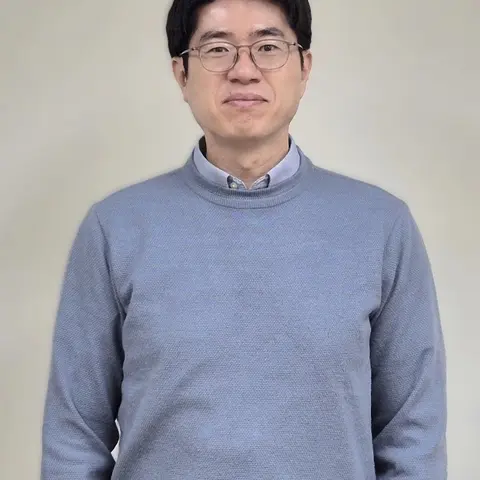
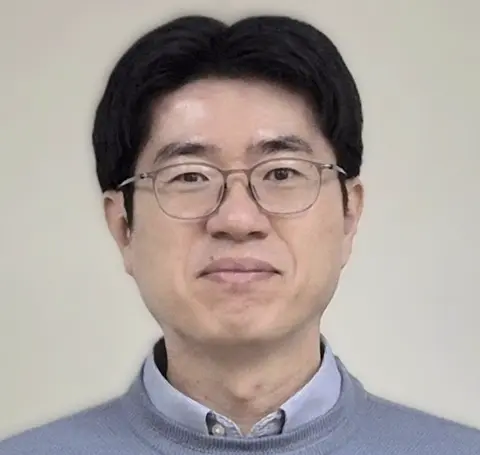
Deploying to gh-pages from @ syoungjoo/syoungjoo.github.io@7a734164506bc4f93343b6773e61bacaf04cfff3 🚀

diff --git a/members/index.html b/members/index.html
@@ -1,5 +1,5 @@
 <!DOCTYPE html> <html lang="en"> <head> <meta http-equiv="Content-Type" content="text/html; charset=UTF-8"> <meta charset="utf-8"> <meta name="viewport" content="width=device-width, initial-scale=1, shrink-to-fit=no"> <meta http-equiv="X-UA-Compatible" content="IE=edge"> <title> members | Computer Systems Security Lab </title> <meta name="author" content=" "> <meta name="description" content="Computer Systems Security Lab, School of Cybersecurity, Korea University. We study system security, microarchitectural side-channel attacks, cloud security, and network security. "> <meta name="keywords" content="computer systems security, side-channel attack, cloud security, Korea University, CSS Lab"> <meta http-equiv="Content-Security-Policy" content="default-src 'self'; script-src 'self' 'unsafe-inline' https:; style-src 'self' 'unsafe-inline' https:; img-src 'self' data: https:; font-src 'self' data: https:; media-src 'self' https:; frame-src 'self' https:; connect-src 'self' https:;"> <link rel="stylesheet" href="/assets/css/bootstrap.min.css?v=a4b3f509e79c54a512b890d73235ef04"> <link rel="stylesheet" href="https://cdn.jsdelivr.net/npm/mdbootstrap@4.20.0/css/mdb.min.css" integrity="sha256-jpjYvU3G3N6nrrBwXJoVEYI/0zw8htfFnhT9ljN3JJw=" crossorigin="anonymous"> <link defer rel="stylesheet" href="/assets/css/academicons.min.css?v=f0b7046b84e425c55f3463ac249818f5"> <link defer rel="stylesheet" href="/assets/css/scholar-icons.css?v=62b2ac103a88034e6882a5be5f3e2772"> <link defer rel="stylesheet" type="text/css" href="https://fonts.googleapis.com/css?family=Roboto:300,400,500,700|Roboto+Slab:100,300,400,500,700|Material+Icons&amp;display=swap"> <link defer rel="stylesheet" href="/assets/css/jekyll-pygments-themes-github.css?v=591dab5a4e56573bf4ef7fd332894c99" media="" id="highlight_theme_light"> <link rel="shortcut icon" href="/assets/img/site/lab_mark.png?v=f956a2e7ab94cdafaa7fb9907341de24"> <link rel="stylesheet" href="/assets/css/main.css?v=d41d8cd98f00b204e9800998ecf8427e"> <link rel="canonical" href="https://css.korea.ac.kr/members/"> <script src="/assets/js/theme.js?v=5fea5159b787642c1bbc1f334d60f883"></script> <link defer rel="stylesheet" href="/assets/css/jekyll-pygments-themes-native.css?v=5847e5ed4a4568527aa6cfab446049ca" media="none" id="highlight_theme_dark"> <script>
     initTheme();
-  </script> </head> <body class="fixed-top-nav "> <header> <nav id="navbar" class="navbar navbar-light navbar-expand-sm fixed-top" role="navigation"> <div class="container"> <button class="navbar-toggler collapsed ml-auto" type="button" data-toggle="collapse" data-target="#navbarNav" aria-controls="navbarNav" aria-expanded="false" aria-label="Toggle navigation"> <span class="sr-only">Toggle navigation</span> <span class="icon-bar top-bar"></span> <span class="icon-bar middle-bar"></span> <span class="icon-bar bottom-bar"></span> </button> <div class="collapse navbar-collapse text-right" id="navbarNav"> <ul class="navbar-nav ml-auto flex-nowrap"> <li class="nav-item "> <a class="nav-link" href="/">home </a> </li> <li class="nav-item active"> <a class="nav-link" href="/members/">members <span class="sr-only">(current)</span> </a> </li> <li class="nav-item "> <a class="nav-link" href="/research/">research </a> </li> <li class="nav-item "> <a class="nav-link" href="/publications/">publications </a> </li> <li class="nav-item "> <a class="nav-link" href="/repositories/">repositories </a> </li> <li class="nav-item "> <a class="nav-link" href="/deadlines/">deadlines </a> </li> <li class="nav-item "> <a class="nav-link" href="/gallery/">gallery </a> </li> <li class="nav-item "> <a class="nav-link" href="/contact/">contact </a> </li> <li class="nav-item"> <button id="search-toggle" title="Search" onclick="openSearchModal()"> <span class="nav-link">ctrl k <i class="fa-solid fa-magnifying-glass"></i></span> </button> </li> <li class="toggle-container"> <button id="light-toggle" title="Change theme"> <i class="fa-half-sun-moon" id="light-toggle-system"></i> <i class="fa-solid fa-moon" id="light-toggle-dark"></i> <i class="fa-solid fa-sun" id="light-toggle-light"></i> </button> </li> </ul> </div> </div> </nav> <progress id="progress" value="0"> <div class="progress-container"> <span class="progress-bar"></span> </div> </progress> </header> <div class="container mt-5" role="main"> <div class="post"> <header class="post-header"> <h1 class="post-title">members</h1> <p class="post-description"></p> </header> <article> <style>.member-group{margin-top:2.2rem}.member-group h2{border-bottom:1px solid var(--global-divider-color);padding-bottom:.3rem;margin-bottom:1.2rem}.member-grid{display:grid;grid-template-columns:repeat(auto-fill,minmax(160px,1fr));gap:1.8rem 1.6rem}.member-card{padding:0;border:1px solid var(--global-divider-color);border-radius:6px;background:var(--global-card-bg-color,transparent);overflow:hidden;display:flex;flex-direction:column}.member-card .photo{width:100%;aspect-ratio:1 / 1;object-fit:cover;background:var(--global-divider-color)}.member-card .body{padding:.8rem 1rem 1rem}.member-card .name{font-weight:600;font-size:1rem;margin-bottom:.15rem}.member-card .cohort{font-size:.8rem;color:var(--global-text-color-light);margin-bottom:.35rem}.member-card .email{font-size:.8rem;font-family:var(--global-code-font-family,monospace);margin-bottom:.4rem;word-break:break-all}.member-card .interests{font-size:.82rem;color:var(--global-text-color);line-height:1.45}.member-links{display:flex;gap:.6rem;flex-wrap:wrap;margin-top:.5rem}.member-links a{color:var(--global-text-color-light);font-size:1rem;text-decoration:none;transition:color .15s ease}.member-links a:hover{color:var(--global-theme-color,#b509ac)}.member-professor .member-links{margin-top:.6rem;font-size:1.1rem}.member-professor{display:flex;gap:1.5rem;align-items:flex-start;padding:1.2rem;border:1px solid var(--global-divider-color);border-radius:6px}.member-professor img{width:124px;height:124px;object-fit:cover;border-radius:6px;flex-shrink:0}.alumni-table{width:100%;border-collapse:collapse;font-size:.9rem}.alumni-table th,.alumni-table td{padding:.5rem .7rem;text-align:left;border-bottom:1px solid var(--global-divider-color)}.alumni-table th{font-weight:600}@media(max-width:576px){.member-professor{flex-direction:column;align-items:center;text-align:center}}</style> <div class="member-group"> <h2>Professor</h2> <div class="member-professor"> <img src="/assets/img/members/syoungjoo.jpg" alt="Youngjoo Shin"> <div> <div style="font-weight: 600; font-size: 1.3rem; margin-bottom: 0.2rem;"> <a href="/members/professor/">Youngjoo Shin</a> </div> <div style="color: var(--global-text-color-light); margin-bottom: 0.5rem;">Professor</div> <div style="font-family: var(--global-code-font-family, monospace); font-size: 0.9rem; margin-bottom: 0.5rem;">syoungjoo [at] korea.ac.kr</div> <div> <strong>Research:</strong> System Security, Microarchitectural Side-channel Attacks, Cloud Security, Network Security</div> <div class="member-links"> <a href="https://scholar.google.co.kr/citations?user=Db9Vqw4AAAAJ&amp;hl=en" title="Google Scholar" aria-label="Google Scholar" target="_blank" rel="noopener"><i class="ai ai-google-scholar"></i></a><a href="https://github.com/syoungjoo" title="GitHub" aria-label="GitHub" target="_blank" rel="noopener"><i class="fa-brands fa-github"></i></a><a href="https://www.linkedin.com/in/youngjoo-shin-b8b14a55/" title="LinkedIn" aria-label="LinkedIn" target="_blank" rel="noopener"><i class="fa-brands fa-linkedin"></i></a> </div> </div> </div> </div> <div class="member-group"> <h2>Ph.D. Students</h2> <div class="member-grid"> <div class="member-card"> <img class="photo" src="/assets/img/members/taehunk.jpg" alt="Taehun Kim"> <div class="body"> <div class="name"> <a href="/members/taehun-kim/">Taehun Kim</a> </div> <div class="cohort">45th semester</div> <div class="email">taehunk [at] korea.ac.kr</div> <div class="interests">System Security, Microarchitectural Side-channel Attacks, Network Security, Binary Analysis</div> <div class="member-links"> <a href="https://sites.google.com/view/ktaehun/" title="Homepage" aria-label="Homepage" target="_blank" rel="noopener"><i class="fa-solid fa-house"></i></a><a href="https://scholar.google.com/citations?user=0jKNu8kAAAAJ" title="Google Scholar" aria-label="Google Scholar" target="_blank" rel="noopener"><i class="ai ai-google-scholar"></i></a> </div> </div> </div> <div class="member-card"> <img class="photo" src="/assets/img/members/pch2180.jpg" alt="Chanhee Park"> <div class="body"> <div class="name"> <a href="/members/chanhee-park/">Chanhee Park</a> </div> <div class="cohort">45th semester</div> <div class="email">pch2180 [at] korea.ac.kr</div> <div class="interests">System Security, Binary Analysis, Network Security</div> <div class="member-links"><a href="https://ch4rli3kop.notion.site/Who-am-I-996551d8de634f8993b7954643afeda8" title="Homepage" aria-label="Homepage" target="_blank" rel="noopener"><i class="fa-solid fa-house"></i></a></div> </div> </div> <div class="member-card"> <img class="photo" src="/assets/img/members/jh_kor.jpg" alt="Jihye Lee"> <div class="body"> <div class="name"> <a href="/members/jihye-lee/">Jihye Lee</a> </div> <div class="cohort">46th semester</div> <div class="email">jh_kor [at] korea.ac.kr</div> <div class="interests">System Security, Binary Analysis</div> <div class="member-links"><a href="https://thirsty-doolgibi.notion.site/LEE-JIHYE-54136dc166c74ba18b501fa2f3d2353a" title="Homepage" aria-label="Homepage" target="_blank" rel="noopener"><i class="fa-solid fa-house"></i></a></div> </div> </div> <div class="member-card"> <img class="photo" src="/assets/img/members/d05004.jpg" alt="Dongjoo Kim"> <div class="body"> <div class="name"> <a href="/members/dongjoo-kim/">Dongjoo Kim</a> </div> <div class="cohort">47th semester</div> <div class="email">d05004 [at] korea.ac.kr</div> <div class="interests">System Security, Binary Analysis, Fuzzing</div> <div class="member-links"><a href="https://d05004.notion.site/CV-922d7120fd8b46049af096fcb5ac6b57" title="Homepage" aria-label="Homepage" target="_blank" rel="noopener"><i class="fa-solid fa-house"></i></a></div> </div> </div> </div> </div> <div class="member-group"> <h2>M.S. Students</h2> <div class="member-grid"> <div class="member-card"> <img class="photo" src="/assets/img/members/se1ynn22.jpg" alt="Serin Kim"> <div class="body"> <div class="name"> <a href="/members/serin-kim/">Serin Kim</a> </div> <div class="cohort">49th semester</div> <div class="email">se1ynn22 [at] korea.ac.kr</div> <div class="interests">System Security, Side-channel Attacks</div> <div class="member-links"><a href="https://holly-bush-0cc.notion.site/Se-Lynn-Kim-843ff95c9df941fe9cf12581bd426797" title="Homepage" aria-label="Homepage" target="_blank" rel="noopener"><i class="fa-solid fa-house"></i></a></div> </div> </div> <div class="member-card"> <img class="photo" src="/assets/img/members/junseokk.jpg" alt="Junseok Ko"> <div class="body"> <div class="name"> <a href="/members/junseok-ko/">Junseok Ko</a> </div> <div class="cohort">47th semester</div> <div class="email">junseokk [at] korea.ac.kr</div> <div class="interests">System Security, Microarchitectural Side-channel Attacks</div> <div class="member-links"><a href="https://www.notion.so/CV-of-Jun-Seok-Ko-fea7fff4592d4a999b9f0ee33edc637e" title="Homepage" aria-label="Homepage" target="_blank" rel="noopener"><i class="fa-solid fa-house"></i></a></div> </div> </div> <div class="member-card"> <img class="photo" src="/assets/img/members/qkrtjdgns147.jpg" alt="Seonghun Park"> <div class="body"> <div class="name"> <a href="/members/seonghun-park/">Seonghun Park</a> </div> <div class="cohort">49th semester</div> <div class="email">qkrtjdgns147 [at] korea.ac.kr</div> <div class="interests">System Security, Binary Analysis, Network Security, AI Security</div> <div class="member-links"><a href="https://www.notion.so/CV-3041246c0cf2802ca179cdeffc8c0c19" title="Homepage" aria-label="Homepage" target="_blank" rel="noopener"><i class="fa-solid fa-house"></i></a></div> </div> </div> <div class="member-card"> <img class="photo" src="/assets/img/members/integer0132.jpg" alt="Jeongsu Kim"> <div class="body"> <div class="name"> <a href="/members/jeongsu-kim/">Jeongsu Kim</a> </div> <div class="cohort">50th semester</div> <div class="email">integer0132 [at] korea.ac.kr</div> <div class="interests">System Security, Microarchitectural Side-channel Attacks</div> <div class="member-links"><a href="https://abstracted-piccolo-dba.notion.site/Jeongsu-Kim-2104f1b2303980e9bfcfd1a715a1e8eb" title="Homepage" aria-label="Homepage" target="_blank" rel="noopener"><i class="fa-solid fa-house"></i></a></div> </div> </div> <div class="member-card"> <img class="photo" src="/assets/img/members/kimgu.jpg" alt="Geonung Kim"> <div class="body"> <div class="name"> <a href="/members/geonung-kim/">Geonung Kim</a> </div> <div class="cohort">50th semester</div> <div class="email">kimgu [at] korea.ac.kr</div> <div class="interests">Binary Analysis, Embedded Systems Security</div> <div class="member-links"><a href="https://exuberant-verdict-759.notion.site/GEONUNG-KIM-a59902c29cc3449a951e76e924c36335" title="Homepage" aria-label="Homepage" target="_blank" rel="noopener"><i class="fa-solid fa-house"></i></a></div> </div> </div> <div class="member-card"> <img class="photo" src="/assets/img/members/joon0228.jpg" alt="Seungjun Oh"> <div class="body"> <div class="name"> <a href="/members/seungjun-oh/">Seungjun Oh</a> </div> <div class="cohort">51st semester</div> <div class="email">joon0228 [at] korea.ac.kr</div> <div class="interests">Side-channel Attacks, Binary Analysis</div> <div class="member-links"><a href="https://www.notion.so/Seung-Jun-Oh-2d590061274a809793d0c9bd0deb2c4a" title="Homepage" aria-label="Homepage" target="_blank" rel="noopener"><i class="fa-solid fa-house"></i></a></div> </div> </div> <div class="member-card"> <img class="photo" src="/assets/img/members/sol0211.jpg" alt="Junho Lee"> <div class="body"> <div class="name"> <a href="/members/junho-lee/">Junho Lee</a> </div> <div class="cohort">51st semester</div> <div class="email">sol0211 [at] korea.ac.kr</div> <div class="interests">System Security, Binary Analysis, Cloud Security</div> <div class="member-links"><a href="https://cloud-tea.notion.site/Junho-Lee-3063ddbf1e5280259fbaee6bbe62b909" title="Homepage" aria-label="Homepage" target="_blank" rel="noopener"><i class="fa-solid fa-house"></i></a></div> </div> </div> <div class="member-card"> <img class="photo" src="/assets/img/members/dhseo.jpg" alt="Donghyun Seo"> <div class="body"> <div class="name"> <a href="/members/donghyun-seo/">Donghyun Seo</a> </div> <div class="cohort">51st semester</div> <div class="email">dhseo [at] korea.ac.kr</div> <div class="interests">Binary Analysis, Network Security</div> <div class="member-links"><a href="https://www.notion.so/Dong-Hyun-Seo-1e8e13dc98338018b2a6fc78d8f207cf" title="Homepage" aria-label="Homepage" target="_blank" rel="noopener"><i class="fa-solid fa-house"></i></a></div> </div> </div> <div class="member-card"> <img class="photo" src="/assets/img/members/mckim2762.jpg" alt="Minchang Kim"> <div class="body"> <div class="name"> <a href="/members/minchang-kim/">Minchang Kim</a> </div> <div class="cohort">51st semester</div> <div class="email">mckim2762 [at] korea.ac.kr</div> <div class="interests">Network Security, Cloud Security, Binary Analysis</div> <div class="member-links"><a href="https://www.notion.so/CV-de3770dca0d28245a3be81086d4562a4" title="Homepage" aria-label="Homepage" target="_blank" rel="noopener"><i class="fa-solid fa-house"></i></a></div> </div> </div> </div> </div> <div class="member-group"> <h2>Undergraduate Students</h2> <div class="member-grid"> <div class="member-card"> <img class="photo" src="/assets/img/members/leehojune.png" alt="Hojun Lee"> <div class="body"> <div class="name"> <a href="/members/hojun-lee/">Hojun Lee</a> </div> <div class="email">leehojune [at] korea.ac.kr</div> <div class="interests">System Security, Binary Analysis, Fuzzing</div> <div class="member-links"><a href="https://www.notion.so/Hojun-Lee-2a330016da9780888c4fe1bf63f7d0bb" title="Homepage" aria-label="Homepage" target="_blank" rel="noopener"><i class="fa-solid fa-house"></i></a></div> </div> </div> <div class="member-card"> <img class="photo" src="/assets/img/members/jimmyxyz.jpg" alt="Jihoon Kwon"> <div class="body"> <div class="name"> <a href="/members/jihoon-kwon/">Jihoon Kwon</a> </div> <div class="email">jimmyxyz [at] korea.ac.kr</div> <div class="interests">Side-channel Attacks, System Security, Fuzzing</div> <div class="member-links"><a href="https://cliff-noise-9bf.notion.site/Jihoon-Kwon-305fe5564fb48005b7fef298aee0977e" title="Homepage" aria-label="Homepage" target="_blank" rel="noopener"><i class="fa-solid fa-house"></i></a></div> </div> </div> <div class="member-card"> <img class="photo" src="/assets/img/members/stark0809.jpg" alt="Jihu Cha"> <div class="body"> <div class="name"> <a href="/members/jihu-cha/">Jihu Cha</a> </div> <div class="email">stark0809 [at] korea.ac.kr</div> <div class="interests">Embedded Systems Security, Side-channel Attacks, IoMT Security</div> <div class="member-links"><a href="https://www.notion.so/CV-304f5ee55a8a80b1b684fbd8402aaf87" title="Homepage" aria-label="Homepage" target="_blank" rel="noopener"><i class="fa-solid fa-house"></i></a></div> </div> </div> </div> </div> <div class="member-group"> <h2>Administrative Staff</h2> <div class="member-grid"> <div class="member-card"> <img class="photo" src="/assets/img/members/mhpark.png" alt="Mihyun Park"> <div class="body"> <div class="name">Mihyun Park</div> <div class="cohort">Administrative Staff</div> </div> </div> </div> </div> <div class="member-group"> <h2>Alumni</h2> <table class="alumni-table"> <thead> <tr> <th>Name</th> <th>Degree / Cohort</th> <th>Current Affiliation</th> </tr> </thead> <tbody> <tr> <td>Hyerean Jang</td> <td> Ph.D. Course · 42nd </td> <td>Samsung Research</td> </tr> <tr> <td>Taehun Kim</td> <td> M.S. Course · 41st </td> <td>Korea University</td> </tr> <tr> <td>Seungil Noh</td> <td> M.S. Course · 41st </td> <td>Defense Agency for Technology and Quality</td> </tr> <tr> <td>Seungyeon Bae</td> <td> M.S. Course · 42nd </td> <td>SGS Korea</td> </tr> <tr> <td>Wonseok Choi</td> <td> M.S. Course · 43rd </td> <td>Ministry of Defense</td> </tr> <tr> <td>Seokmin Lee</td> <td> M.S. Course · 43rd </td> <td>Samsung SDS</td> </tr> <tr> <td>Jimin Choi</td> <td> M.S. Course · 43rd </td> <td>Samsung SDS</td> </tr> <tr> <td>Changhee Han</td> <td> M.S. Course · 44th </td> <td>Samsung Electronics</td> </tr> <tr> <td>Dummim Lee</td> <td> M.S. Course · 45th </td> <td>Ministry of Defense</td> </tr> <tr> <td>Sangyub Kim</td> <td> M.S. Course · 45th </td> <td>Samsung SDS</td> </tr> <tr> <td>Taiho Kim</td> <td> M.S. Course · 45th </td> <td>Hyundai Motor Company</td> </tr> <tr> <td>Euiseong Moon</td> <td> M.S. Course · 45th </td> <td>Samsung Electronics</td> </tr> <tr> <td>Dongsoo Kim</td> <td> M.S. Course · 45th </td> <td>Government of the Republic of Korea</td> </tr> <tr> <td>Woomin Lee</td> <td> M.S. Course · 47th </td> <td>Samsung SDS</td> </tr> <tr> <td>Songah Joo</td> <td> M.S. Course · 47th </td> <td>Samsung SDS</td> </tr> <tr> <td>Yiju Jung</td> <td> M.S. Course · 47th </td> <td>Samsung SDS</td> </tr> <tr> <td>Juryeok Kim</td> <td> M.S. Course · 47th </td> <td>Samsung SDS</td> </tr> <tr> <td>Miok Im</td> <td> </td> <td>TmaxSoft</td> </tr> <tr> <td>Soojin Kim</td> <td> </td> <td>TmaxSoft</td> </tr> <tr> <td>Youngrak Choi</td> <td> </td> <td>Samsung Electronics</td> </tr> <tr> <td>Taehyun Kim</td> <td> </td> <td>CISPA Helmholtz Center for Information Security, Germany</td> </tr> <tr> <td>Jonghyeon Cho</td> <td> </td> <td>Samsung Electronics</td> </tr> <tr> <td>Dohyun Ryu</td> <td> </td> <td>Korea University</td> </tr> <tr> <td>Hoyoung Yu</td> <td> </td> <td>Qualitas Semiconductor</td> </tr> </tbody> </table> </div> </article> </div> </div> <footer class="fixed-bottom" role="contentinfo"> <div class="container mt-0"> © Copyright 2026 . © Computer Systems Security Lab, Korea University. Powered by <a href="https://jekyllrb.com/" target="_blank" rel="external nofollow noopener">Jekyll</a> with <a href="https://github.com/alshedivat/al-folio" rel="external nofollow noopener" target="_blank">al-folio</a> theme. </div> </footer> <script src="https://cdn.jsdelivr.net/npm/jquery@3.6.0/dist/jquery.min.js" integrity="sha256-/xUj+3OJU5yExlq6GSYGSHk7tPXikynS7ogEvDej/m4=" crossorigin="anonymous"></script> <script src="/assets/js/bootstrap.bundle.min.js"></script> <script src="https://cdn.jsdelivr.net/npm/mdbootstrap@4.20.0/js/mdb.min.js" integrity="sha256-NdbiivsvWt7VYCt6hYNT3h/th9vSTL4EDWeGs5SN3DA=" crossorigin="anonymous"></script> <script defer src="https://cdn.jsdelivr.net/npm/masonry-layout@4.2.2/dist/masonry.pkgd.min.js" integrity="sha256-Nn1q/fx0H7SNLZMQ5Hw5JLaTRZp0yILA/FRexe19VdI=" crossorigin="anonymous"></script> <script defer src="https://cdn.jsdelivr.net/npm/imagesloaded@5.0.0/imagesloaded.pkgd.min.js" integrity="sha256-htrLFfZJ6v5udOG+3kNLINIKh2gvoKqwEhHYfTTMICc=" crossorigin="anonymous"></script> <script defer src="/assets/js/masonry.js?v=a0db7e5d5c70cc3252b3138b0c91dcaf" type="text/javascript"></script> <script defer src="https://cdn.jsdelivr.net/npm/medium-zoom@1.1.0/dist/medium-zoom.min.js" integrity="sha256-ZgMyDAIYDYGxbcpJcfUnYwNevG/xi9OHKaR/8GK+jWc=" crossorigin="anonymous"></script> <script defer src="/assets/js/zoom.js?v=85ddb88934d28b74e78031fd54cf8308"></script> <script src="/assets/js/no_defer.js?v=2781658a0a2b13ed609542042a859126"></script> <script defer src="/assets/js/common.js?v=c15de51d4bb57887caa2c21988d97279"></script> <script defer src="/assets/js/copy_code.js?v=c8a01c11a92744d44b093fc3bda915df" type="text/javascript"></script> <script defer src="/assets/js/jupyter_new_tab.js?v=d9f17b6adc2311cbabd747f4538bb15f"></script> <script async src="https://d1bxh8uas1mnw7.cloudfront.net/assets/embed.js"></script> <script async src="https://badge.dimensions.ai/badge.js"></script> <script defer type="text/javascript" id="MathJax-script" src="https://cdn.jsdelivr.net/npm/mathjax@3.2.2/es5/tex-mml-chtml.js" integrity="sha256-MASABpB4tYktI2Oitl4t+78w/lyA+D7b/s9GEP0JOGI=" crossorigin="anonymous"></script> <script src="/assets/js/mathjax-setup.js?v=a5bb4e6a542c546dd929b24b8b236dfd"></script> <script defer src="https://cdnjs.cloudflare.com/polyfill/v3/polyfill.min.js?features=es6" crossorigin="anonymous"></script> <script async src="https://www.googletagmanager.com/gtag/js?id=G-67DDRGCX8M"></script> <script defer src="/assets/js/google-analytics-setup.js"></script> <script defer src="/assets/js/progress-bar.js?v=2f30e0e6801ea8f5036fa66e1ab0a71a" type="text/javascript"></script> <script src="/assets/js/vanilla-back-to-top.min.js?v=f40d453793ff4f64e238e420181a1d17"></script> <script>
+  </script> </head> <body class="fixed-top-nav "> <header> <nav id="navbar" class="navbar navbar-light navbar-expand-sm fixed-top" role="navigation"> <div class="container"> <button class="navbar-toggler collapsed ml-auto" type="button" data-toggle="collapse" data-target="#navbarNav" aria-controls="navbarNav" aria-expanded="false" aria-label="Toggle navigation"> <span class="sr-only">Toggle navigation</span> <span class="icon-bar top-bar"></span> <span class="icon-bar middle-bar"></span> <span class="icon-bar bottom-bar"></span> </button> <div class="collapse navbar-collapse text-right" id="navbarNav"> <ul class="navbar-nav ml-auto flex-nowrap"> <li class="nav-item "> <a class="nav-link" href="/">home </a> </li> <li class="nav-item active"> <a class="nav-link" href="/members/">members <span class="sr-only">(current)</span> </a> </li> <li class="nav-item "> <a class="nav-link" href="/research/">research </a> </li> <li class="nav-item "> <a class="nav-link" href="/publications/">publications </a> </li> <li class="nav-item "> <a class="nav-link" href="/repositories/">repositories </a> </li> <li class="nav-item "> <a class="nav-link" href="/deadlines/">deadlines </a> </li> <li class="nav-item "> <a class="nav-link" href="/gallery/">gallery </a> </li> <li class="nav-item "> <a class="nav-link" href="/contact/">contact </a> </li> <li class="nav-item"> <button id="search-toggle" title="Search" onclick="openSearchModal()"> <span class="nav-link">ctrl k <i class="fa-solid fa-magnifying-glass"></i></span> </button> </li> <li class="toggle-container"> <button id="light-toggle" title="Change theme"> <i class="fa-half-sun-moon" id="light-toggle-system"></i> <i class="fa-solid fa-moon" id="light-toggle-dark"></i> <i class="fa-solid fa-sun" id="light-toggle-light"></i> </button> </li> </ul> </div> </div> </nav> <progress id="progress" value="0"> <div class="progress-container"> <span class="progress-bar"></span> </div> </progress> </header> <div class="container mt-5" role="main"> <div class="post"> <header class="post-header"> <h1 class="post-title">members</h1> <p class="post-description"></p> </header> <article> <style>.member-group{margin-top:2.2rem}.member-group h2{border-bottom:1px solid var(--global-divider-color);padding-bottom:.3rem;margin-bottom:1.2rem}.member-grid{display:grid;grid-template-columns:repeat(auto-fill,minmax(160px,1fr));gap:1.8rem 1.6rem}.member-card{padding:0;border:1px solid var(--global-divider-color);border-radius:6px;background:var(--global-card-bg-color,transparent);overflow:hidden;display:flex;flex-direction:column}.member-card .photo{width:100%;aspect-ratio:1 / 1;object-fit:cover;background:var(--global-divider-color)}.member-card .body{padding:.8rem 1rem 1rem}.member-card .name{font-weight:600;font-size:1rem;margin-bottom:.15rem}.member-card .cohort{font-size:.8rem;color:var(--global-text-color-light);margin-bottom:.35rem}.member-card .email{font-size:.8rem;font-family:var(--global-code-font-family,monospace);margin-bottom:.4rem;word-break:break-all}.member-card .interests{font-size:.82rem;color:var(--global-text-color);line-height:1.45}.member-links{display:flex;gap:.6rem;flex-wrap:wrap;margin-top:.5rem}.member-links a{color:var(--global-text-color-light);font-size:1rem;text-decoration:none;transition:color .15s ease}.member-links a:hover{color:var(--global-theme-color,#b509ac)}.member-professor .member-links{margin-top:.6rem;font-size:1.1rem}.member-professor{display:flex;gap:1.5rem;align-items:flex-start;padding:1.2rem;border:1px solid var(--global-divider-color);border-radius:6px}.member-professor img{width:124px;height:124px;object-fit:cover;border-radius:6px;flex-shrink:0}.alumni-table{width:100%;border-collapse:collapse;font-size:.9rem}.alumni-table th,.alumni-table td{padding:.5rem .7rem;text-align:left;border-bottom:1px solid var(--global-divider-color)}.alumni-table th{font-weight:600}@media(max-width:576px){.member-professor{flex-direction:column;align-items:center;text-align:center}}</style> <div class="member-group"> <h2>Professor</h2> <div class="member-professor"> <img src="/assets/img/members/syoungjoo_card.png" alt="Youngjoo Shin"> <div> <div style="font-weight: 600; font-size: 1.3rem; margin-bottom: 0.2rem;"> <a href="/members/professor/">Youngjoo Shin</a> </div> <div style="color: var(--global-text-color-light); margin-bottom: 0.5rem;">Professor</div> <div style="font-family: var(--global-code-font-family, monospace); font-size: 0.9rem; margin-bottom: 0.5rem;">syoungjoo [at] korea.ac.kr</div> <div> <strong>Research:</strong> System Security, Microarchitectural Side-channel Attacks, Cloud Security, Network Security</div> <div class="member-links"> <a href="https://scholar.google.co.kr/citations?user=Db9Vqw4AAAAJ&amp;hl=en" title="Google Scholar" aria-label="Google Scholar" target="_blank" rel="noopener"><i class="ai ai-google-scholar"></i></a><a href="https://github.com/syoungjoo" title="GitHub" aria-label="GitHub" target="_blank" rel="noopener"><i class="fa-brands fa-github"></i></a><a href="https://www.linkedin.com/in/youngjoo-shin-b8b14a55/" title="LinkedIn" aria-label="LinkedIn" target="_blank" rel="noopener"><i class="fa-brands fa-linkedin"></i></a> </div> </div> </div> </div> <div class="member-group"> <h2>Ph.D. Students</h2> <div class="member-grid"> <div class="member-card"> <img class="photo" src="/assets/img/members/taehunk.jpg" alt="Taehun Kim"> <div class="body"> <div class="name"> <a href="/members/taehun-kim/">Taehun Kim</a> </div> <div class="cohort">45th semester</div> <div class="email">taehunk [at] korea.ac.kr</div> <div class="interests">System Security, Microarchitectural Side-channel Attacks, Network Security, Binary Analysis</div> <div class="member-links"> <a href="https://sites.google.com/view/ktaehun/" title="Homepage" aria-label="Homepage" target="_blank" rel="noopener"><i class="fa-solid fa-house"></i></a><a href="https://scholar.google.com/citations?user=0jKNu8kAAAAJ" title="Google Scholar" aria-label="Google Scholar" target="_blank" rel="noopener"><i class="ai ai-google-scholar"></i></a> </div> </div> </div> <div class="member-card"> <img class="photo" src="/assets/img/members/pch2180.jpg" alt="Chanhee Park"> <div class="body"> <div class="name"> <a href="/members/chanhee-park/">Chanhee Park</a> </div> <div class="cohort">45th semester</div> <div class="email">pch2180 [at] korea.ac.kr</div> <div class="interests">System Security, Binary Analysis, Network Security</div> <div class="member-links"><a href="https://ch4rli3kop.notion.site/Who-am-I-996551d8de634f8993b7954643afeda8" title="Homepage" aria-label="Homepage" target="_blank" rel="noopener"><i class="fa-solid fa-house"></i></a></div> </div> </div> <div class="member-card"> <img class="photo" src="/assets/img/members/jh_kor.jpg" alt="Jihye Lee"> <div class="body"> <div class="name"> <a href="/members/jihye-lee/">Jihye Lee</a> </div> <div class="cohort">46th semester</div> <div class="email">jh_kor [at] korea.ac.kr</div> <div class="interests">System Security, Binary Analysis</div> <div class="member-links"><a href="https://thirsty-doolgibi.notion.site/LEE-JIHYE-54136dc166c74ba18b501fa2f3d2353a" title="Homepage" aria-label="Homepage" target="_blank" rel="noopener"><i class="fa-solid fa-house"></i></a></div> </div> </div> <div class="member-card"> <img class="photo" src="/assets/img/members/d05004.jpg" alt="Dongjoo Kim"> <div class="body"> <div class="name"> <a href="/members/dongjoo-kim/">Dongjoo Kim</a> </div> <div class="cohort">47th semester</div> <div class="email">d05004 [at] korea.ac.kr</div> <div class="interests">System Security, Binary Analysis, Fuzzing</div> <div class="member-links"><a href="https://d05004.notion.site/CV-922d7120fd8b46049af096fcb5ac6b57" title="Homepage" aria-label="Homepage" target="_blank" rel="noopener"><i class="fa-solid fa-house"></i></a></div> </div> </div> </div> </div> <div class="member-group"> <h2>M.S. Students</h2> <div class="member-grid"> <div class="member-card"> <img class="photo" src="/assets/img/members/se1ynn22.jpg" alt="Serin Kim"> <div class="body"> <div class="name"> <a href="/members/serin-kim/">Serin Kim</a> </div> <div class="cohort">49th semester</div> <div class="email">se1ynn22 [at] korea.ac.kr</div> <div class="interests">System Security, Side-channel Attacks</div> <div class="member-links"><a href="https://holly-bush-0cc.notion.site/Se-Lynn-Kim-843ff95c9df941fe9cf12581bd426797" title="Homepage" aria-label="Homepage" target="_blank" rel="noopener"><i class="fa-solid fa-house"></i></a></div> </div> </div> <div class="member-card"> <img class="photo" src="/assets/img/members/junseokk.jpg" alt="Junseok Ko"> <div class="body"> <div class="name"> <a href="/members/junseok-ko/">Junseok Ko</a> </div> <div class="cohort">47th semester</div> <div class="email">junseokk [at] korea.ac.kr</div> <div class="interests">System Security, Microarchitectural Side-channel Attacks</div> <div class="member-links"><a href="https://www.notion.so/CV-of-Jun-Seok-Ko-fea7fff4592d4a999b9f0ee33edc637e" title="Homepage" aria-label="Homepage" target="_blank" rel="noopener"><i class="fa-solid fa-house"></i></a></div> </div> </div> <div class="member-card"> <img class="photo" src="/assets/img/members/qkrtjdgns147.jpg" alt="Seonghun Park"> <div class="body"> <div class="name"> <a href="/members/seonghun-park/">Seonghun Park</a> </div> <div class="cohort">49th semester</div> <div class="email">qkrtjdgns147 [at] korea.ac.kr</div> <div class="interests">System Security, Binary Analysis, Network Security, AI Security</div> <div class="member-links"><a href="https://www.notion.so/CV-3041246c0cf2802ca179cdeffc8c0c19" title="Homepage" aria-label="Homepage" target="_blank" rel="noopener"><i class="fa-solid fa-house"></i></a></div> </div> </div> <div class="member-card"> <img class="photo" src="/assets/img/members/integer0132.jpg" alt="Jeongsu Kim"> <div class="body"> <div class="name"> <a href="/members/jeongsu-kim/">Jeongsu Kim</a> </div> <div class="cohort">50th semester</div> <div class="email">integer0132 [at] korea.ac.kr</div> <div class="interests">System Security, Microarchitectural Side-channel Attacks</div> <div class="member-links"><a href="https://abstracted-piccolo-dba.notion.site/Jeongsu-Kim-2104f1b2303980e9bfcfd1a715a1e8eb" title="Homepage" aria-label="Homepage" target="_blank" rel="noopener"><i class="fa-solid fa-house"></i></a></div> </div> </div> <div class="member-card"> <img class="photo" src="/assets/img/members/kimgu.jpg" alt="Geonung Kim"> <div class="body"> <div class="name"> <a href="/members/geonung-kim/">Geonung Kim</a> </div> <div class="cohort">50th semester</div> <div class="email">kimgu [at] korea.ac.kr</div> <div class="interests">Binary Analysis, Embedded Systems Security</div> <div class="member-links"><a href="https://exuberant-verdict-759.notion.site/GEONUNG-KIM-a59902c29cc3449a951e76e924c36335" title="Homepage" aria-label="Homepage" target="_blank" rel="noopener"><i class="fa-solid fa-house"></i></a></div> </div> </div> <div class="member-card"> <img class="photo" src="/assets/img/members/joon0228.jpg" alt="Seungjun Oh"> <div class="body"> <div class="name"> <a href="/members/seungjun-oh/">Seungjun Oh</a> </div> <div class="cohort">51st semester</div> <div class="email">joon0228 [at] korea.ac.kr</div> <div class="interests">Side-channel Attacks, Binary Analysis</div> <div class="member-links"><a href="https://www.notion.so/Seung-Jun-Oh-2d590061274a809793d0c9bd0deb2c4a" title="Homepage" aria-label="Homepage" target="_blank" rel="noopener"><i class="fa-solid fa-house"></i></a></div> </div> </div> <div class="member-card"> <img class="photo" src="/assets/img/members/sol0211.jpg" alt="Junho Lee"> <div class="body"> <div class="name"> <a href="/members/junho-lee/">Junho Lee</a> </div> <div class="cohort">51st semester</div> <div class="email">sol0211 [at] korea.ac.kr</div> <div class="interests">System Security, Binary Analysis, Cloud Security</div> <div class="member-links"><a href="https://cloud-tea.notion.site/Junho-Lee-3063ddbf1e5280259fbaee6bbe62b909" title="Homepage" aria-label="Homepage" target="_blank" rel="noopener"><i class="fa-solid fa-house"></i></a></div> </div> </div> <div class="member-card"> <img class="photo" src="/assets/img/members/dhseo.jpg" alt="Donghyun Seo"> <div class="body"> <div class="name"> <a href="/members/donghyun-seo/">Donghyun Seo</a> </div> <div class="cohort">51st semester</div> <div class="email">dhseo [at] korea.ac.kr</div> <div class="interests">Binary Analysis, Network Security</div> <div class="member-links"><a href="https://www.notion.so/Dong-Hyun-Seo-1e8e13dc98338018b2a6fc78d8f207cf" title="Homepage" aria-label="Homepage" target="_blank" rel="noopener"><i class="fa-solid fa-house"></i></a></div> </div> </div> <div class="member-card"> <img class="photo" src="/assets/img/members/mckim2762.jpg" alt="Minchang Kim"> <div class="body"> <div class="name"> <a href="/members/minchang-kim/">Minchang Kim</a> </div> <div class="cohort">51st semester</div> <div class="email">mckim2762 [at] korea.ac.kr</div> <div class="interests">Network Security, Cloud Security, Binary Analysis</div> <div class="member-links"><a href="https://www.notion.so/CV-de3770dca0d28245a3be81086d4562a4" title="Homepage" aria-label="Homepage" target="_blank" rel="noopener"><i class="fa-solid fa-house"></i></a></div> </div> </div> </div> </div> <div class="member-group"> <h2>Undergraduate Students</h2> <div class="member-grid"> <div class="member-card"> <img class="photo" src="/assets/img/members/leehojune.png" alt="Hojun Lee"> <div class="body"> <div class="name"> <a href="/members/hojun-lee/">Hojun Lee</a> </div> <div class="email">leehojune [at] korea.ac.kr</div> <div class="interests">System Security, Binary Analysis, Fuzzing</div> <div class="member-links"><a href="https://www.notion.so/Hojun-Lee-2a330016da9780888c4fe1bf63f7d0bb" title="Homepage" aria-label="Homepage" target="_blank" rel="noopener"><i class="fa-solid fa-house"></i></a></div> </div> </div> <div class="member-card"> <img class="photo" src="/assets/img/members/jimmyxyz.jpg" alt="Jihoon Kwon"> <div class="body"> <div class="name"> <a href="/members/jihoon-kwon/">Jihoon Kwon</a> </div> <div class="email">jimmyxyz [at] korea.ac.kr</div> <div class="interests">Side-channel Attacks, System Security, Fuzzing</div> <div class="member-links"><a href="https://cliff-noise-9bf.notion.site/Jihoon-Kwon-305fe5564fb48005b7fef298aee0977e" title="Homepage" aria-label="Homepage" target="_blank" rel="noopener"><i class="fa-solid fa-house"></i></a></div> </div> </div> <div class="member-card"> <img class="photo" src="/assets/img/members/stark0809.jpg" alt="Jihu Cha"> <div class="body"> <div class="name"> <a href="/members/jihu-cha/">Jihu Cha</a> </div> <div class="email">stark0809 [at] korea.ac.kr</div> <div class="interests">Embedded Systems Security, Side-channel Attacks, IoMT Security</div> <div class="member-links"><a href="https://www.notion.so/CV-304f5ee55a8a80b1b684fbd8402aaf87" title="Homepage" aria-label="Homepage" target="_blank" rel="noopener"><i class="fa-solid fa-house"></i></a></div> </div> </div> </div> </div> <div class="member-group"> <h2>Administrative Staff</h2> <div class="member-grid"> <div class="member-card"> <img class="photo" src="/assets/img/members/mhpark.png" alt="Mihyun Park"> <div class="body"> <div class="name">Mihyun Park</div> <div class="cohort">Administrative Staff</div> </div> </div> </div> </div> <div class="member-group"> <h2>Alumni</h2> <table class="alumni-table"> <thead> <tr> <th>Name</th> <th>Degree / Cohort</th> <th>Current Affiliation</th> </tr> </thead> <tbody> <tr> <td>Hyerean Jang</td> <td> Ph.D. Course · 42nd </td> <td>Samsung Research</td> </tr> <tr> <td>Taehun Kim</td> <td> M.S. Course · 41st </td> <td>Korea University</td> </tr> <tr> <td>Seungil Noh</td> <td> M.S. Course · 41st </td> <td>Defense Agency for Technology and Quality</td> </tr> <tr> <td>Seungyeon Bae</td> <td> M.S. Course · 42nd </td> <td>SGS Korea</td> </tr> <tr> <td>Wonseok Choi</td> <td> M.S. Course · 43rd </td> <td>Ministry of Defense</td> </tr> <tr> <td>Seokmin Lee</td> <td> M.S. Course · 43rd </td> <td>Samsung SDS</td> </tr> <tr> <td>Jimin Choi</td> <td> M.S. Course · 43rd </td> <td>Samsung SDS</td> </tr> <tr> <td>Changhee Han</td> <td> M.S. Course · 44th </td> <td>Samsung Electronics</td> </tr> <tr> <td>Dummim Lee</td> <td> M.S. Course · 45th </td> <td>Ministry of Defense</td> </tr> <tr> <td>Sangyub Kim</td> <td> M.S. Course · 45th </td> <td>Samsung SDS</td> </tr> <tr> <td>Taiho Kim</td> <td> M.S. Course · 45th </td> <td>Hyundai Motor Company</td> </tr> <tr> <td>Euiseong Moon</td> <td> M.S. Course · 45th </td> <td>Samsung Electronics</td> </tr> <tr> <td>Dongsoo Kim</td> <td> M.S. Course · 45th </td> <td>Government of the Republic of Korea</td> </tr> <tr> <td>Woomin Lee</td> <td> M.S. Course · 47th </td> <td>Samsung SDS</td> </tr> <tr> <td>Songah Joo</td> <td> M.S. Course · 47th </td> <td>Samsung SDS</td> </tr> <tr> <td>Yiju Jung</td> <td> M.S. Course · 47th </td> <td>Samsung SDS</td> </tr> <tr> <td>Juryeok Kim</td> <td> M.S. Course · 47th </td> <td>Samsung SDS</td> </tr> <tr> <td>Miok Im</td> <td> </td> <td>TmaxSoft</td> </tr> <tr> <td>Soojin Kim</td> <td> </td> <td>TmaxSoft</td> </tr> <tr> <td>Youngrak Choi</td> <td> </td> <td>Samsung Electronics</td> </tr> <tr> <td>Taehyun Kim</td> <td> </td> <td>CISPA Helmholtz Center for Information Security, Germany</td> </tr> <tr> <td>Jonghyeon Cho</td> <td> </td> <td>Samsung Electronics</td> </tr> <tr> <td>Dohyun Ryu</td> <td> </td> <td>Korea University</td> </tr> <tr> <td>Hoyoung Yu</td> <td> </td> <td>Qualitas Semiconductor</td> </tr> </tbody> </table> </div> </article> </div> </div> <footer class="fixed-bottom" role="contentinfo"> <div class="container mt-0"> © Copyright 2026 . © Computer Systems Security Lab, Korea University. Powered by <a href="https://jekyllrb.com/" target="_blank" rel="external nofollow noopener">Jekyll</a> with <a href="https://github.com/alshedivat/al-folio" rel="external nofollow noopener" target="_blank">al-folio</a> theme. </div> </footer> <script src="https://cdn.jsdelivr.net/npm/jquery@3.6.0/dist/jquery.min.js" integrity="sha256-/xUj+3OJU5yExlq6GSYGSHk7tPXikynS7ogEvDej/m4=" crossorigin="anonymous"></script> <script src="/assets/js/bootstrap.bundle.min.js"></script> <script src="https://cdn.jsdelivr.net/npm/mdbootstrap@4.20.0/js/mdb.min.js" integrity="sha256-NdbiivsvWt7VYCt6hYNT3h/th9vSTL4EDWeGs5SN3DA=" crossorigin="anonymous"></script> <script defer src="https://cdn.jsdelivr.net/npm/masonry-layout@4.2.2/dist/masonry.pkgd.min.js" integrity="sha256-Nn1q/fx0H7SNLZMQ5Hw5JLaTRZp0yILA/FRexe19VdI=" crossorigin="anonymous"></script> <script defer src="https://cdn.jsdelivr.net/npm/imagesloaded@5.0.0/imagesloaded.pkgd.min.js" integrity="sha256-htrLFfZJ6v5udOG+3kNLINIKh2gvoKqwEhHYfTTMICc=" crossorigin="anonymous"></script> <script defer src="/assets/js/masonry.js?v=a0db7e5d5c70cc3252b3138b0c91dcaf" type="text/javascript"></script> <script defer src="https://cdn.jsdelivr.net/npm/medium-zoom@1.1.0/dist/medium-zoom.min.js" integrity="sha256-ZgMyDAIYDYGxbcpJcfUnYwNevG/xi9OHKaR/8GK+jWc=" crossorigin="anonymous"></script> <script defer src="/assets/js/zoom.js?v=85ddb88934d28b74e78031fd54cf8308"></script> <script src="/assets/js/no_defer.js?v=2781658a0a2b13ed609542042a859126"></script> <script defer src="/assets/js/common.js?v=c15de51d4bb57887caa2c21988d97279"></script> <script defer src="/assets/js/copy_code.js?v=c8a01c11a92744d44b093fc3bda915df" type="text/javascript"></script> <script defer src="/assets/js/jupyter_new_tab.js?v=d9f17b6adc2311cbabd747f4538bb15f"></script> <script async src="https://d1bxh8uas1mnw7.cloudfront.net/assets/embed.js"></script> <script async src="https://badge.dimensions.ai/badge.js"></script> <script defer type="text/javascript" id="MathJax-script" src="https://cdn.jsdelivr.net/npm/mathjax@3.2.2/es5/tex-mml-chtml.js" integrity="sha256-MASABpB4tYktI2Oitl4t+78w/lyA+D7b/s9GEP0JOGI=" crossorigin="anonymous"></script> <script src="/assets/js/mathjax-setup.js?v=a5bb4e6a542c546dd929b24b8b236dfd"></script> <script defer src="https://cdnjs.cloudflare.com/polyfill/v3/polyfill.min.js?features=es6" crossorigin="anonymous"></script> <script async src="https://www.googletagmanager.com/gtag/js?id=G-67DDRGCX8M"></script> <script defer src="/assets/js/google-analytics-setup.js"></script> <script defer src="/assets/js/progress-bar.js?v=2f30e0e6801ea8f5036fa66e1ab0a71a" type="text/javascript"></script> <script src="/assets/js/vanilla-back-to-top.min.js?v=f40d453793ff4f64e238e420181a1d17"></script> <script>
     addBackToTop();
   </script> <script type="module" src="/assets/js/search/ninja-keys.min.js?v=a3446f084dcaecc5f75aa1757d087dcf"></script> <ninja-keys hidebreadcrumbs noautoloadmdicons placeholder="Type to start searching"></ninja-keys> <script src="/assets/js/search-setup.js?v=6c304f7b1992d4b60f7a07956e52f04a"></script> <script src="/assets/js/search-data.js"></script> <script src="/assets/js/shortcut-key.js?v=ccc841c459bfc0e64c1c2b5acd10df02"></script> </body> </html>
